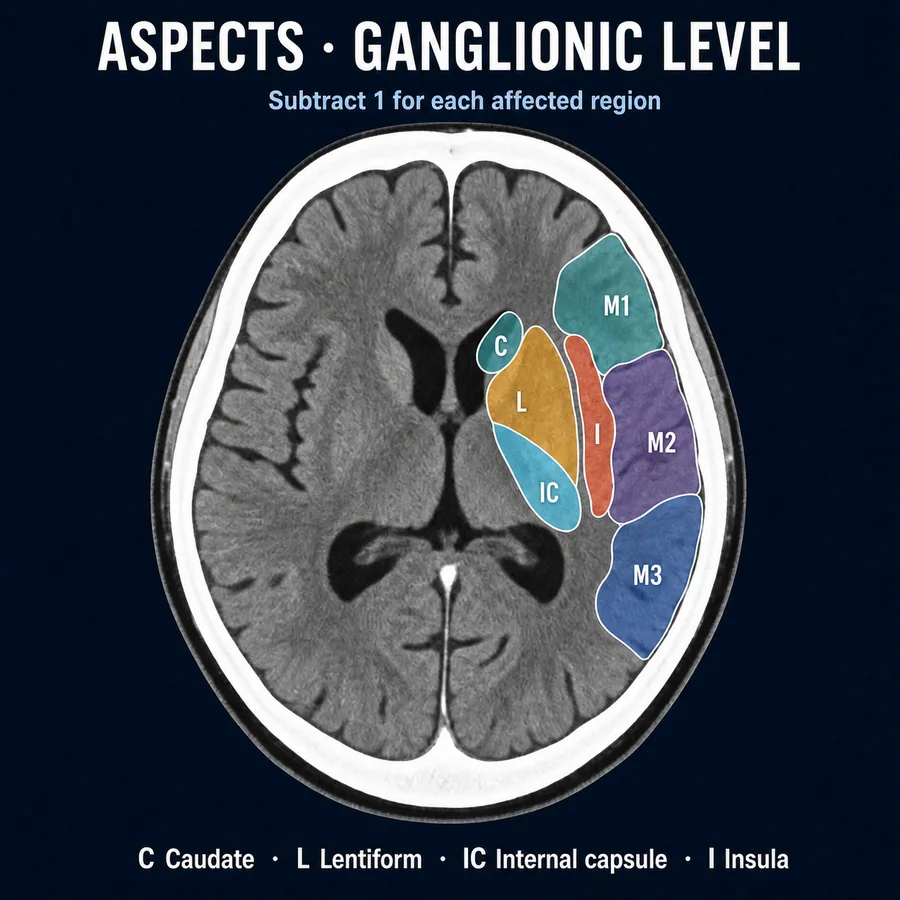
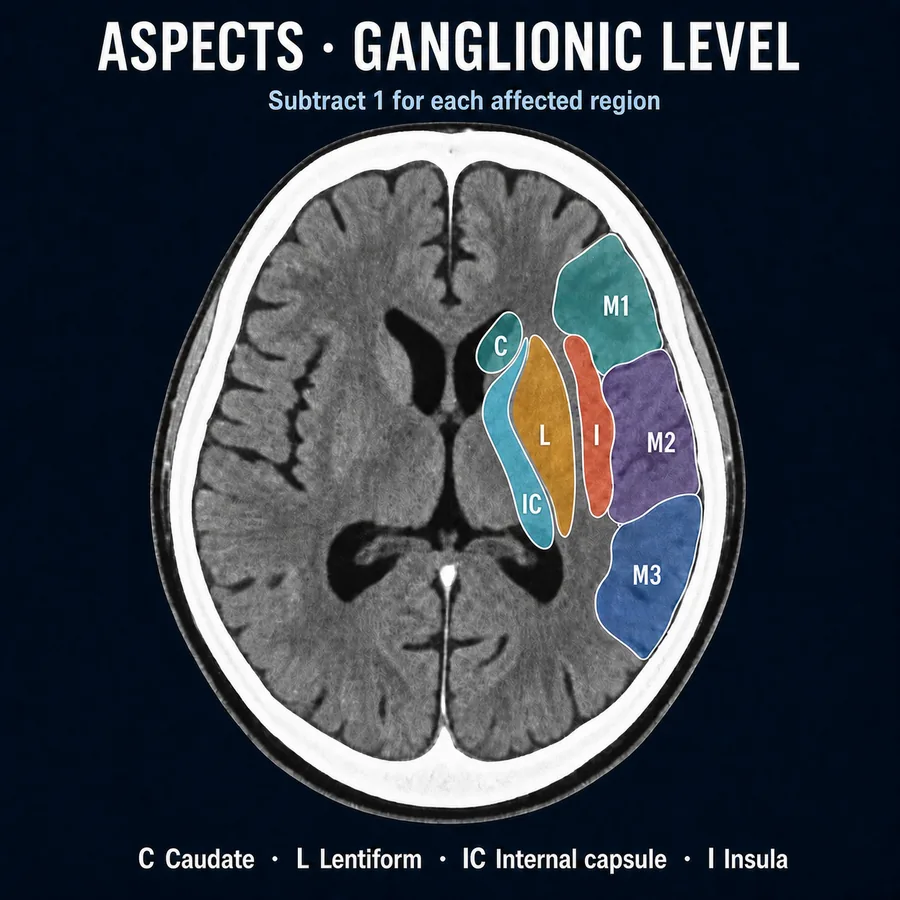
Rebuild the ganglionic plate from the corrected master
The internal capsule now runs as a narrow band medial to the lentiform, so the
sequence reads C, IC, L, I, M2 from the midline outward. Previously it sat
inferolateral to the lentiform, roughly over external capsule territory.

The WebP committed in 21ed120 was stale: the corrected master landed after the
build ran, so the shipped image still showed the old overlay while the master
in the same commit showed the new one. Rebuilt, cache bumped so installed
copies pick it up.

Also:
- dropped aspects-ganglionic-v3.png, byte-identical to the current plate, and
  reconciled the README, which still listed v1 and v2 after those were removed.
  Superseded revisions are not kept beside the current one; git history is the
  archive.
- build-images.py no longer emits scoring-key.webp. The key is not shipped, so
  regenerating it on every build left an unused file in the tree.

diff --git a/index.html b/index.html
@@ -1,5 +1,5 @@
 <!DOCTYPE html>
-<html lang="en" data-theme="light" data-version="1.13.0">
+<html lang="en" data-theme="light" data-version="1.13.1">
 <head>
 <meta charset="UTF-8">
 <meta name="viewport" content="width=device-width, initial-scale=1, viewport-fit=cover">
@@ -2142,7 +2142,7 @@
   <p>The software is MIT licensed; the clinical content is released under <strong>CC BY 4.0</strong> — reuse it, adapt it for your own institution, translate it, as long as you attribute the source. Corrections are welcome and wanted: if a recommendation here misstates the guideline, or a number is wrong, open an issue or a pull request with the citation.</p>
 
   <h2>Version</h2>
-  <p class="src">Version <span id="buildVersion">1.13.0</span>. Content current to the 2026 AHA/ASA acute ischaemic stroke guideline, the 2022 AHA/ASA spontaneous ICH guideline, and named trials published through February 2026.</p>
+  <p class="src">Version <span id="buildVersion">1.13.1</span>. Content current to the 2026 AHA/ASA acute ischaemic stroke guideline, the 2022 AHA/ASA spontaneous ICH guideline, and named trials published through February 2026.</p>
 
   <div class="footer">
     <p>Built as a public resource. No tracking, no analytics, no accounts, no network requests after the first load.</p>

diff --git a/sw.js b/sw.js
@@ -4,7 +4,7 @@
    content corrections land on the next launch, not the one after.
    Bump CACHE on every content release. */
 
-var CACHE = 'asg-v1.13.0';
+var CACHE = 'asg-v1.13.1';
 
 var ASSETS = [
   './',

diff --git a/tools/build-images.py b/tools/build-images.py
@@ -21,7 +21,9 @@ PLATES = [
     'aspects-supraganglionic',
     'pc-aspects-supratentorial',
     'pc-aspects-infratentorial',
-    'scoring-key',
+    # scoring-key is intentionally absent: it restates the region lists and
+    # point weights the in-app scorer already carries, and two sources for one
+    # fact is how they drift apart.
 ]
 
 def main():

diff --git a/assets/images/aspects/README.md b/assets/images/aspects/README.md
@@ -10,16 +10,29 @@ CT/CTA/MRI examination.
   and M3. The caudate head hugs the frontal horn; the internal capsule is a
   narrow boomerang medial to the lentiform nucleus; and the insular ribbon lies
   lateral to the lentiform nucleus along the Sylvian fissure.
-- `aspects-ganglionic-v1.png` — original plate retained for comparison.
-- `aspects-ganglionic-v2.png` — versioned copy of the corrected plate.
-- `aspects-ganglionic-v3.png` — versioned copy with the corrected internal
-  capsule and lentiform overlays.
 - `aspects-supraganglionic.png` — M4, M5, and M6.
 - `pc-aspects-supratentorial.png` — paired thalami and PCA territories.
 - `pc-aspects-infratentorial.png` — paired cerebellar hemispheres, midbrain,
   and pons.
-- `scoring-key.png` — combined point-deduction key.
-- `scoring-key.svg` — editable vector source for the key.
+- `scoring-key.png` / `scoring-key.svg` — combined point-deduction key.
+  **Not shipped in the app**: it restates the region lists and point weights
+  the in-app scorer already carries, and two sources for one fact is how they
+  drift apart. Kept here for print or teaching use.
+
+## Build
+
+These PNGs are the masters and are not served. `tools/build-images.py`
+downscales them to 900 px and writes the `.webp` the app actually loads —
+about 350 KB for the set against 8 MB of PNG, which matters because the
+service worker precaches every shipped asset. Re-run it after replacing any
+master:
+
+```
+python3 tools/build-images.py
+```
+
+Superseded revisions are not kept alongside the current plate; git history is
+the archive.
 
 ## Scoring represented
 
